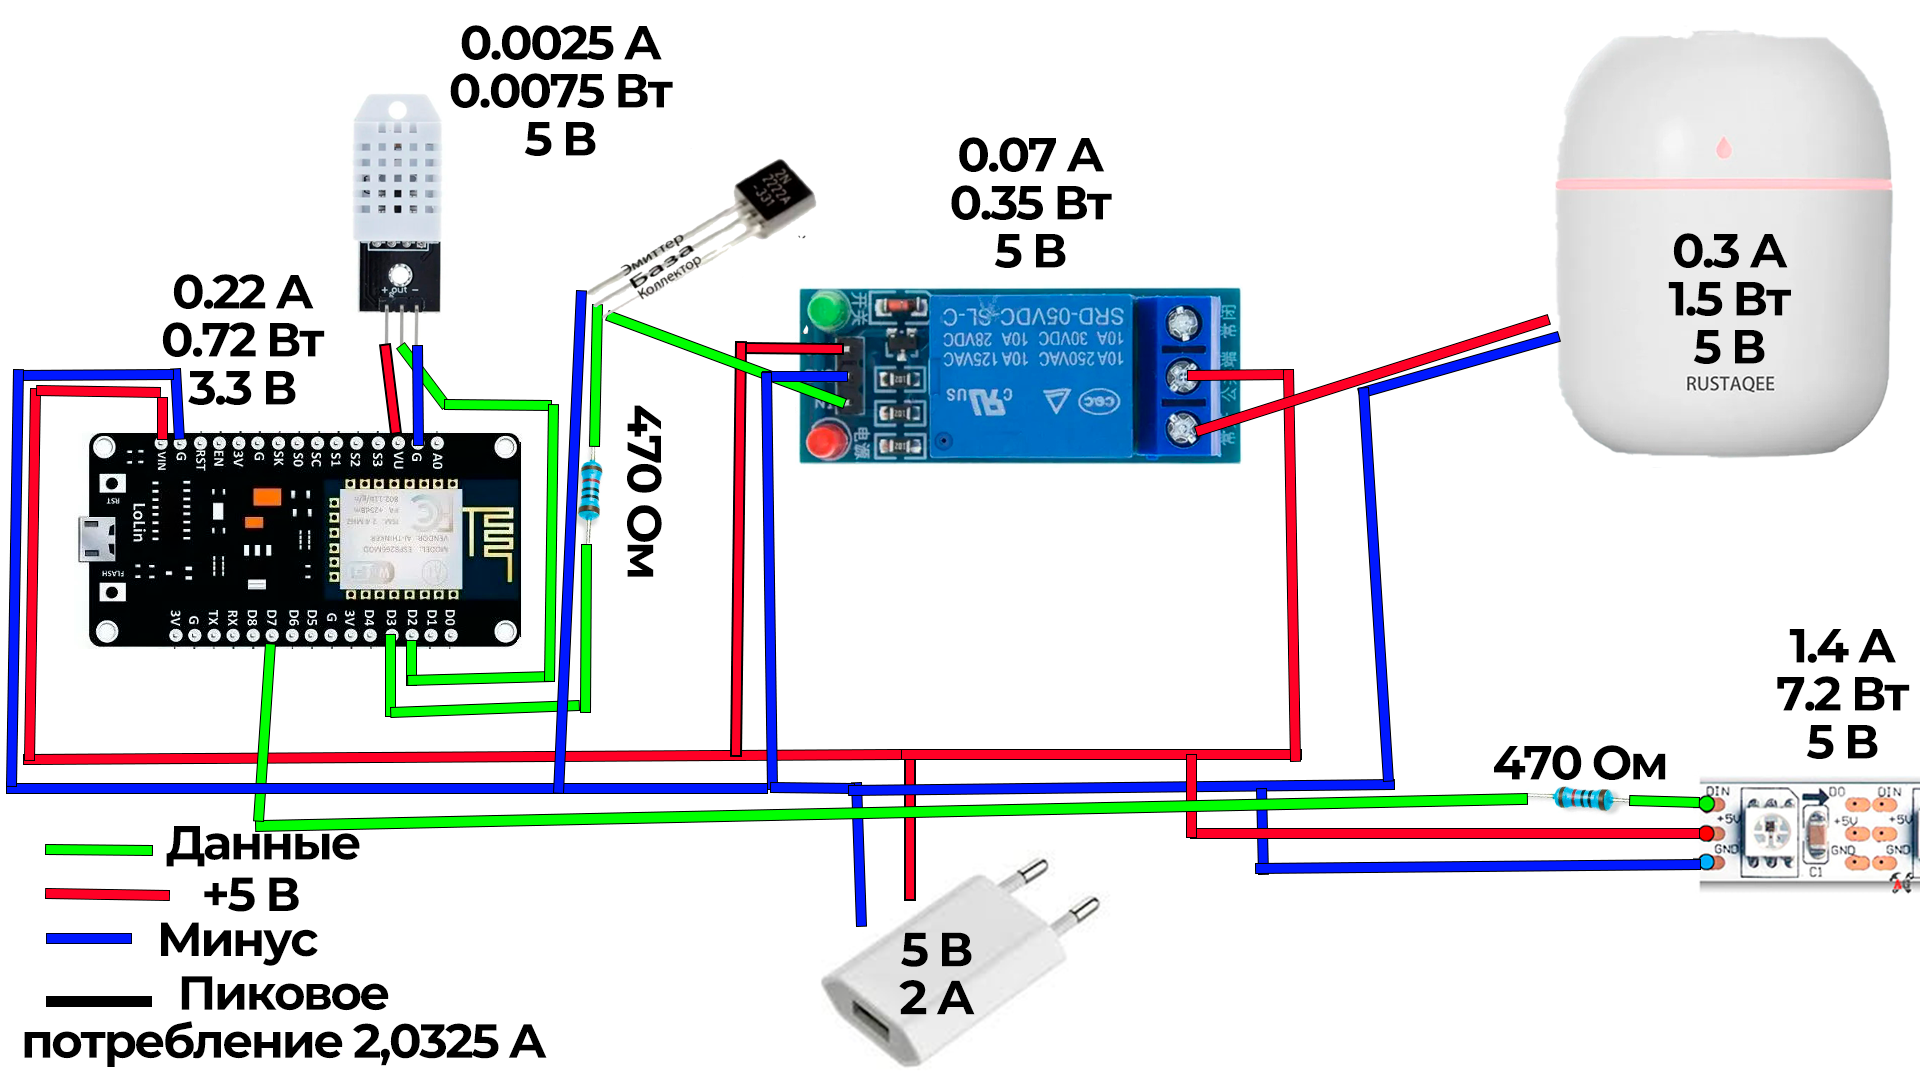
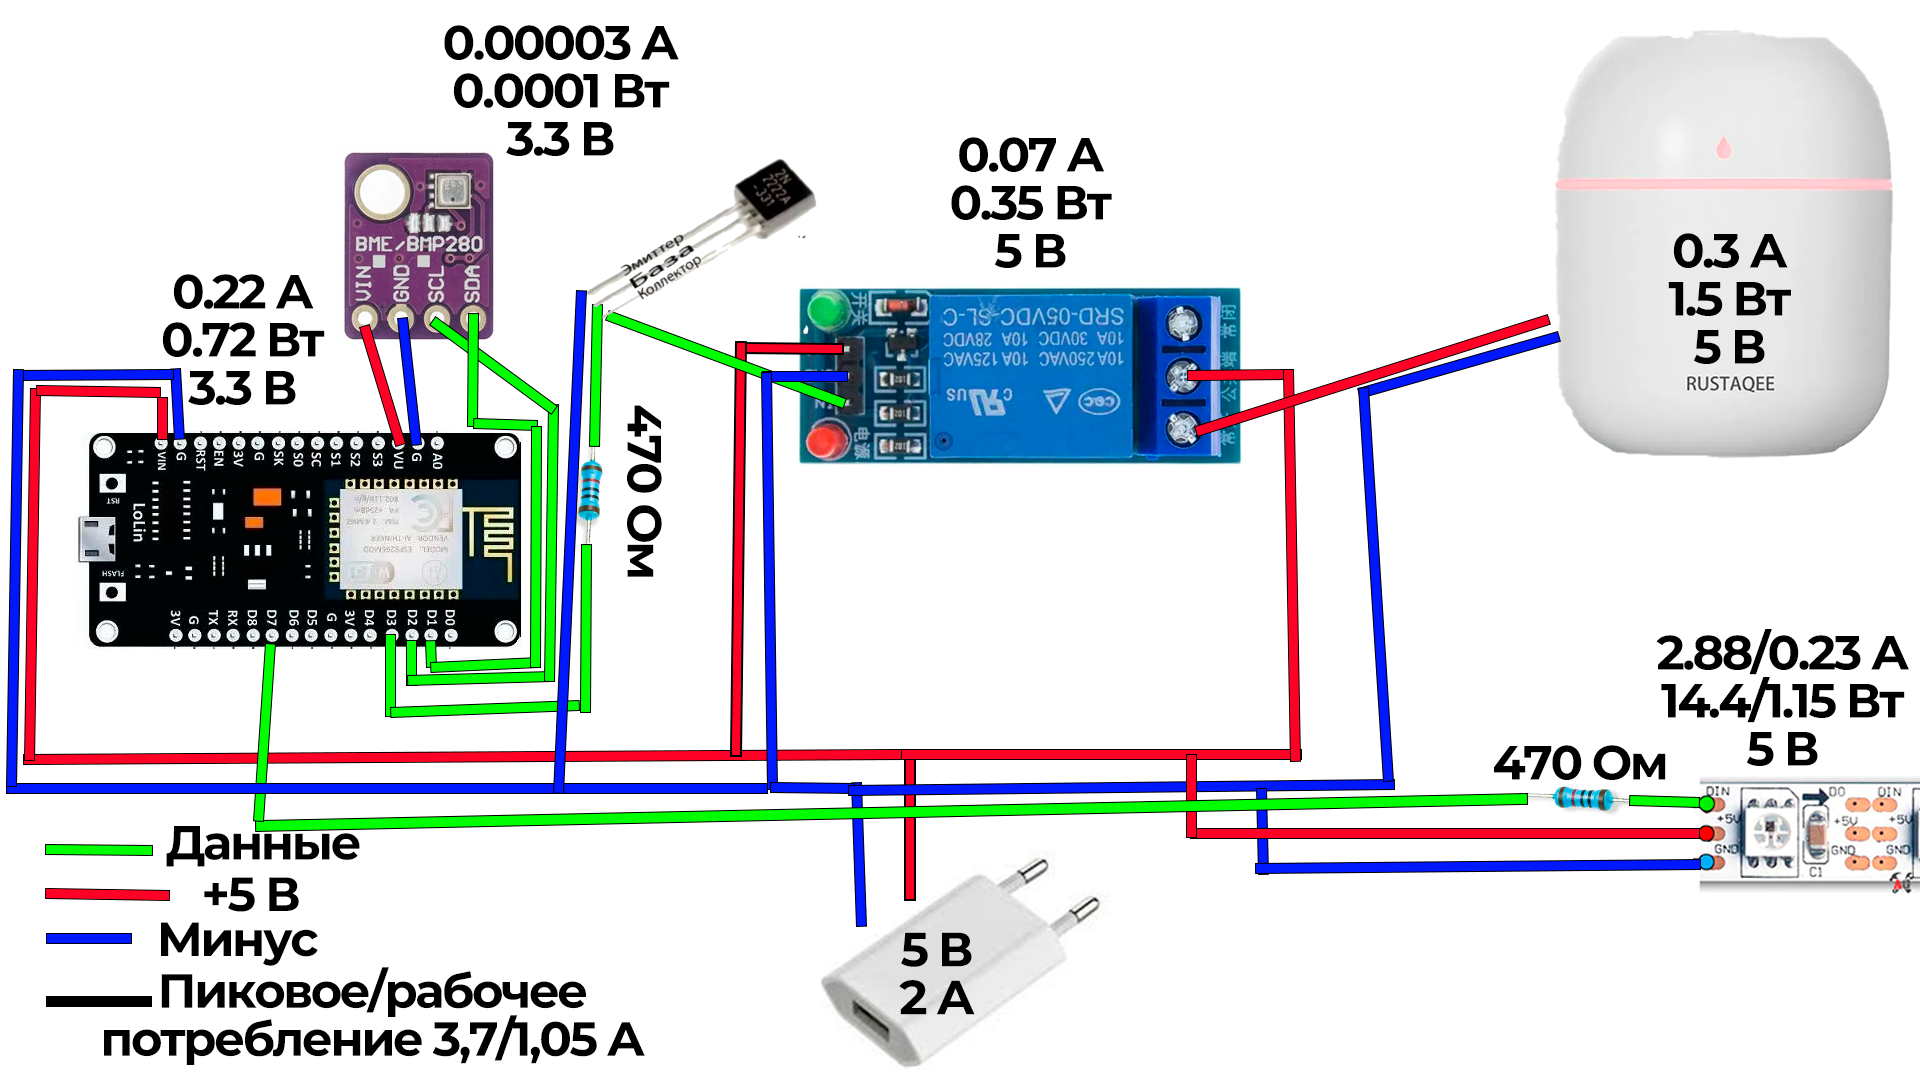
Внесены правки по причине сгорел DHT22, а также улучшен ридми

Changed region(s): [[0.1562, 0.0, 0.375, 0.6417], [0.0, 0.8861, 0.3438, 1.0], [0.8438, 0.5806, 1.0, 0.7333]]

diff --git a/README.md b/README.md
@@ -1,32 +1,48 @@
-# Автоматический увлажнитель воздуха
-
-![Схема подключения датчиков](Набросок_схемы.png)
-
 ## Описание проекта
+**Цель проекта:**  
+Создать автоматическую систему увлажнения помещения с управлением светодиодной лентой и уведомлениями через Telegram бота. Проект решает проблему поддержания комфортного микроклимата в помещении без постоянного контроля человека.
+**Краткий функционал:**  
+- Автоматическое включение/выключение увлажнителя на основе показаний датчика температуры и влажности.  
+- Управление светодиодной лентой.  
+- Уведомления через Telegram при критических значениях температуры или влажности.
+**Схема подключения датчиков и устройств:**  
+![Схема подключения датчиков](Набросок_схемы.png)
+**Аналоги:**  
+- Xiaomi Smart Humidifier  
+- Netatmo Smart Indoor Climate Monitor  
+- Awair Element  
+**Планируемые пользователи/сценарии:**
+- Владельцы квартир и домов, стремящиеся поддерживать оптимальную влажность и температуру.
+- Использование в детских комнатах, офисах или студиях.
 
-Данный проект предназначен для автоматического увлажнения помещения с помощью ESP8266. Также он позволяет управлять светодиодной лентой и получать уведомления через Телеграм бота, при критических значениях температуры или влажности бот автоматически отправит сообщение владельцу.
+## План работ
+**Основные задачи:**
+- Подключение датчиков и проверка их работы.
+- Настройка управления увлажнителем через реле.
+- Подключение и управление светодиодной лентой.
+- Настройка Telegram бота для уведомлений и управления.
+- Тестирование всей системы и отладка кода.
 
-## Используемые компоненты
+## Минимальный функционал
+- Автоматическое управление увлажнителем на основе показаний датчика температуры и влажности.
+- Telegram-уведомления при критических значениях температуры и влажности.
+- Возможность включения/выключения светодиодной ленты.
 
-- ESP8266 NodeMCU  
-- DHT22 (датчик температуры и влажности)  
-- Реле 5 В  
-- Светодиодная лента 5 В  
-- Увлажнитель воздуха
-- Транзистор ktn-2222A522
-- Два резистора 0.25W с сопротивлением 470 Ом
-- Telegram Bot (через UniversalTelegramBot)  
-- Блок питания 5 В 2 А
+## Техническая часть
+**Язык/фреймворки/библиотеки:**
+- Arduino C++ для ESP8266
+- Библиотеки: ESP8266WiFi.h, Adafruit_BME280.h, UniversalTelegramBot.h, Adafruit_NeoPixel.h
+**Обоснование:** ESP8266 легко интегрируется с датчиками и Telegram API, имеет низкое энергопотребление и достаточно памяти для проекта.
 
 ## Электропитание и потребление
+| Устройство                              | Ток (А) | Мощность (Вт) | Напряжение (В) |
+| --------------------------------------- | ------- | ------------- | -------------- |
+| Увлажнитель воздуха                     | 0.30    | 1.50          | 5              |
+| ESP8266                                 | 0.22    | 0.72          | 3.3            |
+| BME280                                  | 0.00003 | 0.0001        | 3.3            |
+| Светодиодная лента (полный белый)       | 2.88    | 14.4          | 5              |
+| Светодиодная лента (рабочее напряжение) | 0.23    | 1.15          | 5              |
+| Реле                                    | 0.07    | 0.35          | 5              |
 
-| Устройство              | Ток (А) | Мощность (Вт) | Напряжение (В) |
-|--------------------------|--------|---------------|---------------|
-| Увлажнитель воздуха   | 0.30   | 1.50          | 5             |
-| ESP8266              | 0.22   | 0.72          | 3.3           |
-| DHT22                | 0.0025 | 0.0075        | 5             |
-| Светодиодная лента   | 1.44   | 7.20          | 5             |
-| Реле                  | 0.07   | 0.35          | 5             |
-
-**Рекомендуемый блок питания:** не менее **5 В / 2 А** 
+**Рекомендуемый блок питания: не менее 5 В / 2 А**
 
